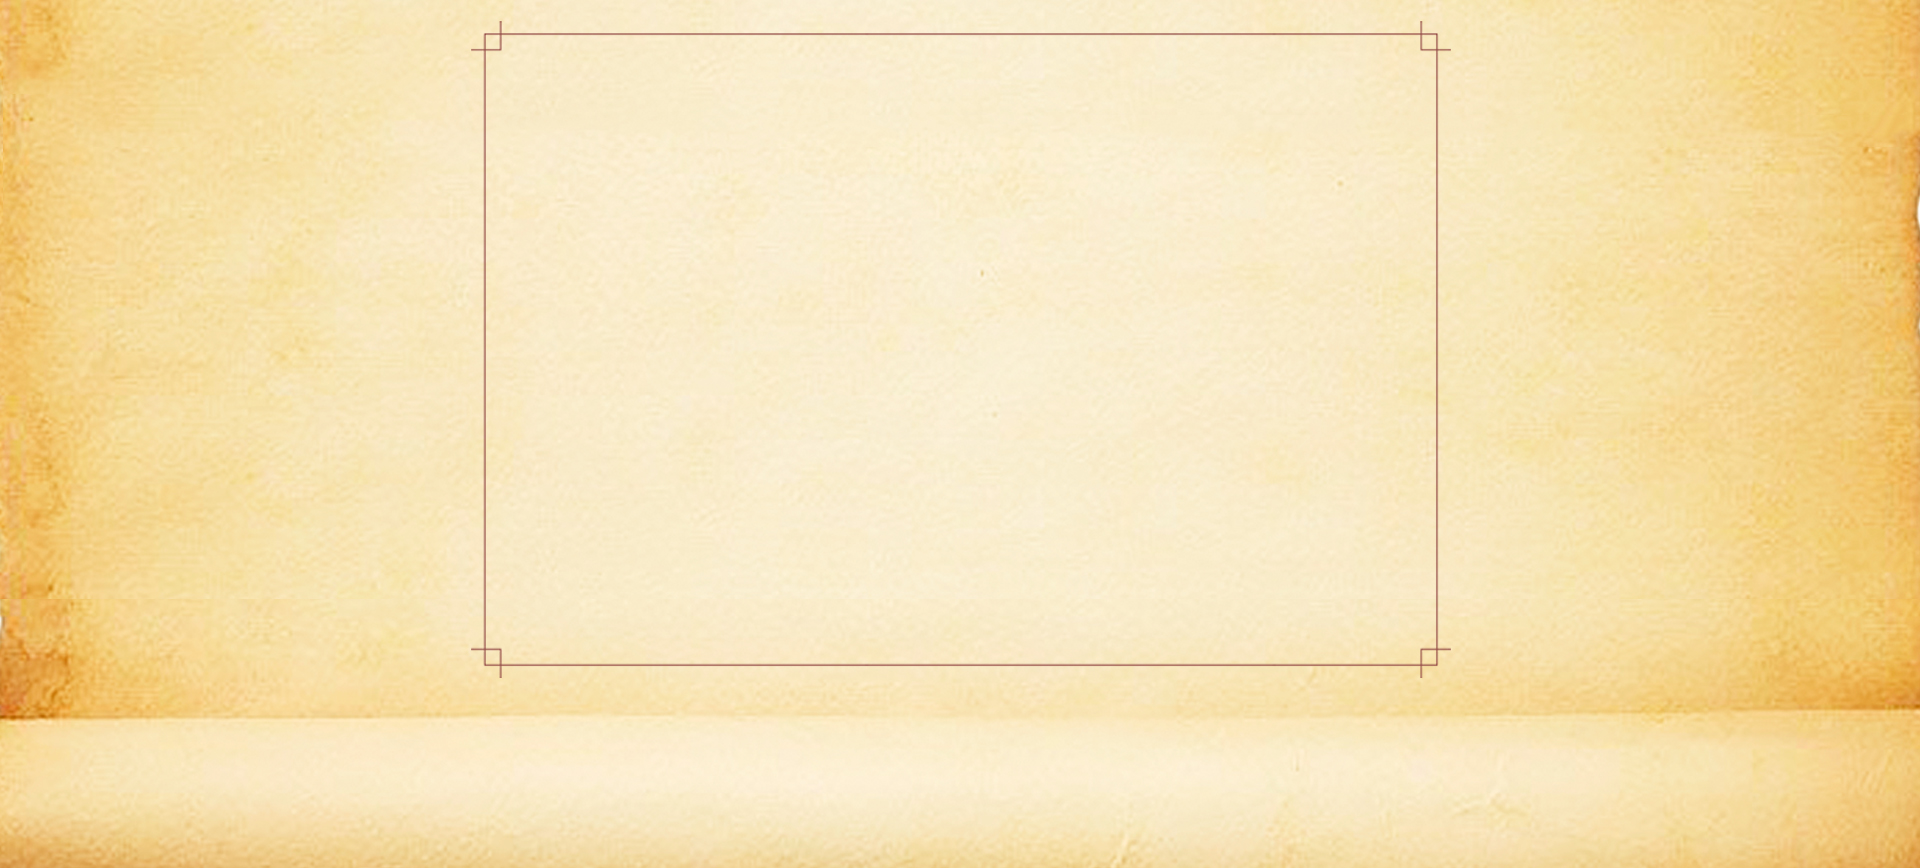
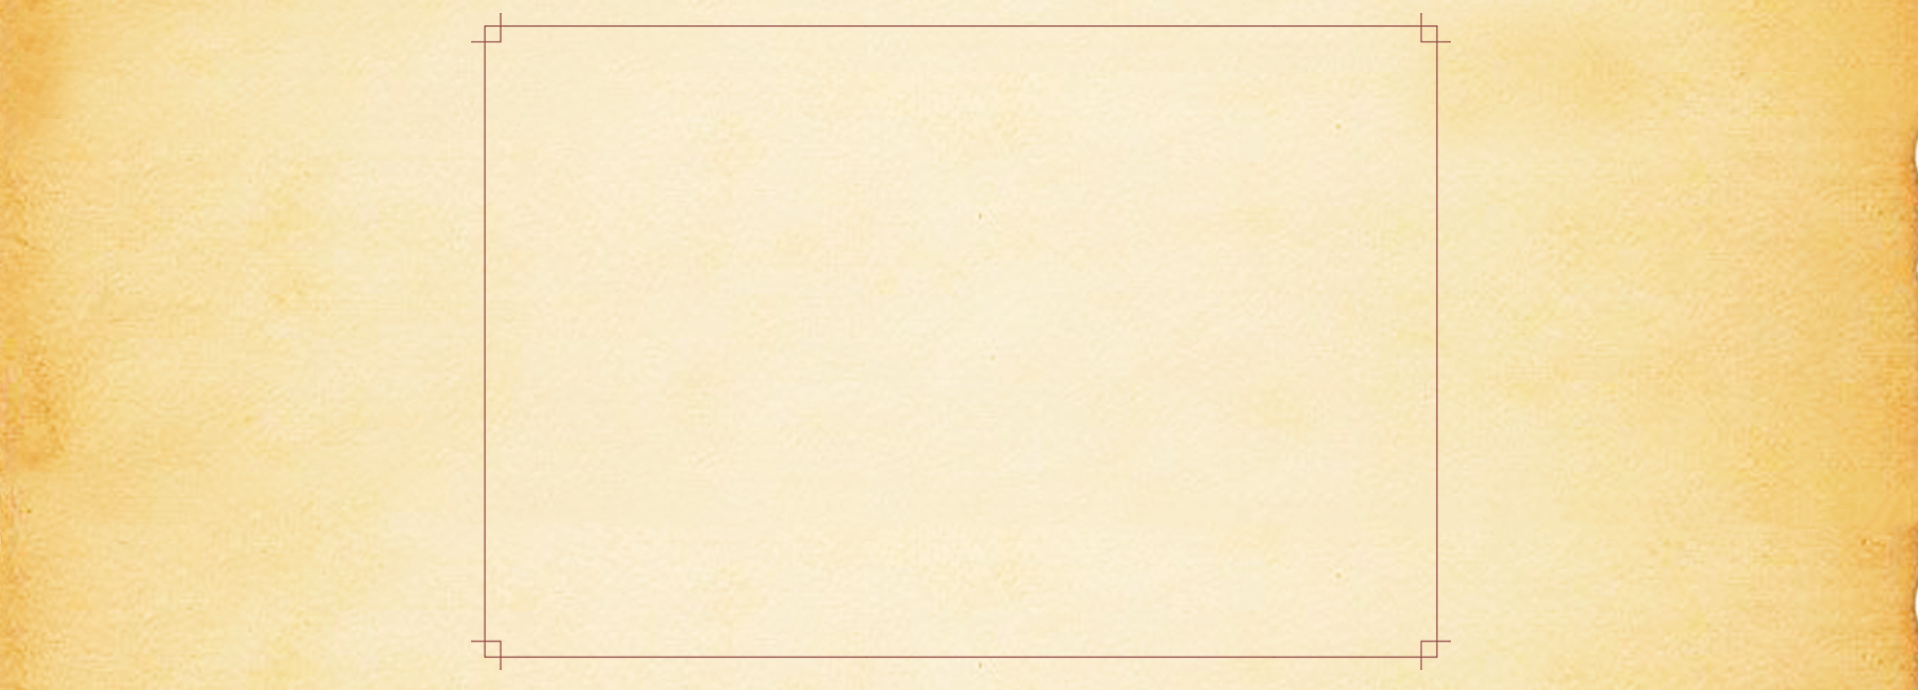
东樾府专题页

diff --git a/css/activity.css b/css/activity.css
@@ -1,1 +1,1 @@
-.main-width{width:1200px;min-width:1200px;margin-left:auto;margin-right:auto}.ellipse{overflow:hidden;white-space:nowrap;text-overflow:ellipsis}input,button{font-size:14px}button{cursor:pointer}.select{width:100%;height:45px;position:relative;font-size:14px}.select .form-control{width:100%;height:45px;line-height:45px;border-radius:3px;-webkit-border-radius:3px;-moz-border-radius:3px;color:#7f85a3;padding:0 12px;box-shadow:inset 0 1px 3px 0 rgba(127,133,163,0.53);-webkit-box-shadow:inset 0 1px 3px 0 rgba(127,133,163,0.53);-moz-box-shadow:inset 0 1px 3px 0 rgba(127,133,163,0.53);background:#eff2f9;background:url("../images/icon/select_ico.png") right 20px center no-repeat,linear-gradient(to bottom, #eff2f9, #dbe0ed)}.select .select-box{position:absolute;right:0;top:0;width:100%;min-height:100%}.select .select-box ul{min-width:100%;max-height:450px;background:#fff;display:none;overflow-x:hidden;overflow-y:auto;border-bottom:1px solid #c3c9d8}.select .select-box ul li{width:100%;height:45px;line-height:45px;border-top:1px solid #c3c9d8;color:#7f85a3;padding:0 12px;cursor:pointer}.select .select-box ul li:hover{background:#eff2f9;color:#7f85a3;border-top-color:#c3c9d8}.select .select-box:hover ul{display:block}.d6128-tit{background:#fff url("../images/activity/sm_02.jpg") center no-repeat;width:auto;height:150px}.d6128-info1{width:auto;height:auto;padding-bottom:50px;overflow:hidden}.d6128-tits{width:100%;height:55px;line-height:55px;color:#4c5374;font-size:22px;border-bottom:1px dotted #7f85a3;margin-top:20px}.d6128-tits1{width:100%;height:55px;line-height:55px;color:#4c5374;font-size:16px;margin-top:45px}.d6128-txt{font-size:16px;color:#4c5374;line-height:24pt;margin-top:20px}.d6128-info2{width:auto;height:auto;padding-bottom:50px;background:#fff;overflow:hidden}.d6128-info2 .main-width,.d6128-info1 .main-width{width:980px}.d6329-tits1{width:100%;height:40px;line-height:40px;color:#4c5374;font-size:20px;margin-top:45px}.d6329-txt{font-size:16px;color:#4c5374;line-height:24pt}.d6329-tits{width:100%;height:30px;line-height:30px;color:#4c5374;border-bottom:1px dotted #7f85a3}.img_w980{width:980px;height:auto}.d20170512-bg{width:100%;overflow:hidden;min-width:1300px}.d20170512-bg.img1{height:1062px;background:url("../images/activity/fel_img_01.jpg") center top no-repeat;background-size:auto 100%}.d20170512-bg.img2{height:754px;background:url("../images/activity/fel_img_02.jpg") center top no-repeat;background-size:auto 100%}.d20170512-bg.img3{height:541px;background:url("../images/activity/fel_img_03.jpg") center top no-repeat;background-size:auto 100%}.d20170810-bg{width:100%;overflow:hidden;background:#242434;font-weight:lighter}.d20170810-bg.img1{height:660px;background:url("../images/activity/dyf/dyf_01.jpg") center top no-repeat;background-size:auto 100%}.d20170810-bg.img2{height:556px;background:url("../images/activity/dyf/dyf_02.jpg") center top no-repeat;background-size:auto 100%}.d20170810-bg.img3 .content{width:682px;margin:30px auto;color:#f1ecd3;font-size:23px;line-height:36px;text-align:center}.d20170810-bg.img4{height:615px;background:url("../images/activity/dyf/dyf_04.jpg") center top no-repeat;background-size:auto 100%}.d20170810-bg.img4 .content{width:853px;height:auto;line-height:20px;color:#f1ecd3;font-size:20px;margin:119px auto 0}.d20170810-bg.img4 .content .items{width:1080px;height:auto}.d20170810-bg.img4 .content .item{display:block;width:381px;height:83px;line-height:25px;overflow:hidden;background-color:#242434;float:left;margin-right:156px;padding:15px 50px 0 0}.d20170810-bg.img5{height:636px;background:url("../images/activity/dyf/dyf_05.jpg") center top no-repeat;background-size:auto 100%}.d20170810-bg.img5 .content{width:853px;height:auto;line-height:20px;color:#f1ecd3;font-size:20px;margin:136px auto 0}.d20170810-bg.img5 .content .items{width:1080px;height:auto}.d20170810-bg.img5 .content .item{display:block;width:381px;height:80px;line-height:25px;overflow:hidden;background-color:#242434;float:left;margin-right:156px;padding:15px 50px 0 0}.d20170810-bg.img6{height:340px;background:url("../images/activity/dyf/dyf_06.jpg") center top no-repeat;background-size:auto 100%}.d20170810-bg.img7{height:717px;background:url("../images/activity/dyf/dyf_07.jpg") center top no-repeat;background-size:auto 100%}.d20170810-bg.img7 .flexslider{width:930px;height:600px;margin:65px auto 0;background:#242434}.d20170810-bg.img7 .flexslider .slides{width:100%;height:549px;overflow:hidden}.d20170810-bg.img7 .flexslider .flex-control-nav li a{width:16px;height:16px;border:1px solid #924b48;background:none}.d20170810-bg.img7 .flexslider .flex-control-nav li a.flex-active{background:#924b48;cursor:default}.d20170810-bg.img8{height:352px;background:url("../images/activity/dyf/dyf_08.jpg") center top no-repeat;background-size:auto 100%}.d20170810-bg.img9 .content{width:945px;margin:40px auto;color:#f1ecd3;font-size:20px;line-height:35px;text-indent:2em}.d20170810-bg.img10{height:820px;background:url("../images/activity/dyf/dyf_10.jpg") center top no-repeat;background-size:auto 100%}.d20170810-bg.img11{height:413px;background:url("../images/activity/dyf/dyf_11.jpg") center top no-repeat;background-size:auto 100%}.d20170925-bg{width:100%;min-width:1200px;overflow:hidden;background:#fff}.d20170925-bg.img1{height:809px;background:url("../images/activity/dyf2/img_01.jpg") center top no-repeat;background-size:auto 100%}.d20170925-bg.img2{height:790px;background:url("../images/activity/dyf2/img_02.jpg") center top no-repeat;background-size:auto 100%}.d20170925-bg.img3{height:589px;background:url("../images/activity/dyf2/img_03.jpg") center top no-repeat;background-size:auto 100%}.d20170925-bg.img4{height:1023px;background:url("../images/activity/dyf2/img_04.jpg") center top no-repeat;background-size:auto 100%}.d20170925-bg.img5{height:822px;background:url("../images/activity/dyf2/img_05.jpg") center top no-repeat;background-size:auto 100%}.d20170925-bg.img6{height:1009px;background:url("../images/activity/dyf2/img_06.jpg") center top no-repeat;background-size:auto 100%}.d20170925-bg.img7{height:420px;background:url("../images/activity/dyf2/img_07.jpg") center top no-repeat;background-size:auto 100%}.d20170925-bg.img8{height:774px;background:url("../images/activity/dyf2/img_08.jpg") center top no-repeat;background-size:auto 100%}.d20170925-bg.img8 .flexslider{width:1033px;height:645px;margin:33px auto 0}.d20170925-bg.img8 .flexslider .slides{width:100%;height:575px;overflow:hidden}.d20170925-bg.img8 .flexslider .flex-control-nav{bottom:10px}.d20170925-bg.img8 .flexslider .flex-control-nav li a{width:30px;height:30px;border:1px solid #924b48;background:none}.d20170925-bg.img8 .flexslider .flex-control-nav li a.flex-active{background:#924b48;cursor:default}.d20171020-bg{width:100%;min-width:1200px;overflow:hidden;background:#fff}.d20171020-bg.img1{height:739px;background:url("../images/activity/dyf3/img_01.jpg") center top no-repeat;background-size:auto 100%}.d20171020-bg.img2{height:736px;background:url("../images/activity/dyf3/img_02.jpg") center top no-repeat;background-size:auto 100%}.d20171020-bg.img3{height:794px;background:url("../images/activity/dyf3/img_03.jpg") center top no-repeat;background-size:auto 100%}.d20171020-bg.img4{height:710px;background:url("../images/activity/dyf3/img_04.jpg") center top no-repeat;background-size:auto 100%}.d20171020-bg.img5{height:568px;background:url("../images/activity/dyf3/img_05.jpg") center top no-repeat;background-size:auto 100%}.d20171020-bg.img6{height:784px;background:url("../images/activity/dyf3/img_06.jpg") center top no-repeat;background-size:auto 100%}.d20171020-bg.img7{height:868px;background:url("../images/activity/dyf3/img_07.jpg") center top no-repeat;background-size:auto 100%}.d20171020-bg.img7 .title{font-size:28px;color:#a44b49;text-align:center;margin-top:60px}.d20171020-bg.img7 .flexslider{background:none;width:930px;height:540px;margin:20px auto 0}.d20171020-bg.img7 .flexslider .slides{width:100%;height:495px;overflow:hidden}.d20171020-bg.img7 .flexslider .flex-control-nav{bottom:10px}.d20171020-bg.img7 .flexslider .flex-control-nav li a{width:18px;height:18px;border:1px solid #924b48;background:none}.d20171020-bg.img7 .flexslider .flex-control-nav li a.flex-active{background:#924b48;cursor:default}
+.main-width{width:1200px;min-width:1200px;margin-left:auto;margin-right:auto}.ellipse{overflow:hidden;white-space:nowrap;text-overflow:ellipsis}input,button{font-size:14px}button{cursor:pointer}.select{width:100%;height:45px;position:relative;font-size:14px}.select .form-control{width:100%;height:45px;line-height:45px;border-radius:3px;-webkit-border-radius:3px;-moz-border-radius:3px;color:#7f85a3;padding:0 12px;box-shadow:inset 0 1px 3px 0 rgba(127,133,163,0.53);-webkit-box-shadow:inset 0 1px 3px 0 rgba(127,133,163,0.53);-moz-box-shadow:inset 0 1px 3px 0 rgba(127,133,163,0.53);background:#eff2f9;background:url("../images/icon/select_ico.png") right 20px center no-repeat,linear-gradient(to bottom, #eff2f9, #dbe0ed)}.select .select-box{position:absolute;right:0;top:0;width:100%;min-height:100%}.select .select-box ul{min-width:100%;max-height:450px;background:#fff;display:none;overflow-x:hidden;overflow-y:auto;border-bottom:1px solid #c3c9d8}.select .select-box ul li{width:100%;height:45px;line-height:45px;border-top:1px solid #c3c9d8;color:#7f85a3;padding:0 12px;cursor:pointer}.select .select-box ul li:hover{background:#eff2f9;color:#7f85a3;border-top-color:#c3c9d8}.select .select-box:hover ul{display:block}.d6128-tit{background:#fff url("../images/activity/sm_02.jpg") center no-repeat;width:auto;height:150px}.d6128-info1{width:auto;height:auto;padding-bottom:50px;overflow:hidden}.d6128-tits{width:100%;height:55px;line-height:55px;color:#4c5374;font-size:22px;border-bottom:1px dotted #7f85a3;margin-top:20px}.d6128-tits1{width:100%;height:55px;line-height:55px;color:#4c5374;font-size:16px;margin-top:45px}.d6128-txt{font-size:16px;color:#4c5374;line-height:24pt;margin-top:20px}.d6128-info2{width:auto;height:auto;padding-bottom:50px;background:#fff;overflow:hidden}.d6128-info2 .main-width,.d6128-info1 .main-width{width:980px}.d6329-tits1{width:100%;height:40px;line-height:40px;color:#4c5374;font-size:20px;margin-top:45px}.d6329-txt{font-size:16px;color:#4c5374;line-height:24pt}.d6329-tits{width:100%;height:30px;line-height:30px;color:#4c5374;border-bottom:1px dotted #7f85a3}.img_w980{width:980px;height:auto}.d20170512-bg{width:100%;overflow:hidden;min-width:1300px}.d20170512-bg.img1{height:1062px;background:url("../images/activity/fel_img_01.jpg") center top no-repeat;background-size:auto 100%}.d20170512-bg.img2{height:754px;background:url("../images/activity/fel_img_02.jpg") center top no-repeat;background-size:auto 100%}.d20170512-bg.img3{height:541px;background:url("../images/activity/fel_img_03.jpg") center top no-repeat;background-size:auto 100%}.d20170810-bg{width:100%;overflow:hidden;background:#242434;font-weight:lighter}.d20170810-bg.img1{height:660px;background:url("../images/activity/dyf/dyf_01.jpg") center top no-repeat;background-size:auto 100%}.d20170810-bg.img2{height:556px;background:url("../images/activity/dyf/dyf_02.jpg") center top no-repeat;background-size:auto 100%}.d20170810-bg.img3 .content{width:682px;margin:30px auto;color:#f1ecd3;font-size:23px;line-height:36px;text-align:center}.d20170810-bg.img4{height:615px;background:url("../images/activity/dyf/dyf_04.jpg") center top no-repeat;background-size:auto 100%}.d20170810-bg.img4 .content{width:853px;height:auto;line-height:20px;color:#f1ecd3;font-size:20px;margin:119px auto 0}.d20170810-bg.img4 .content .items{width:1080px;height:auto}.d20170810-bg.img4 .content .item{display:block;width:381px;height:83px;line-height:25px;overflow:hidden;background-color:#242434;float:left;margin-right:156px;padding:15px 50px 0 0}.d20170810-bg.img5{height:636px;background:url("../images/activity/dyf/dyf_05.jpg") center top no-repeat;background-size:auto 100%}.d20170810-bg.img5 .content{width:853px;height:auto;line-height:20px;color:#f1ecd3;font-size:20px;margin:136px auto 0}.d20170810-bg.img5 .content .items{width:1080px;height:auto}.d20170810-bg.img5 .content .item{display:block;width:381px;height:80px;line-height:25px;overflow:hidden;background-color:#242434;float:left;margin-right:156px;padding:15px 50px 0 0}.d20170810-bg.img6{height:340px;background:url("../images/activity/dyf/dyf_06.jpg") center top no-repeat;background-size:auto 100%}.d20170810-bg.img7{height:717px;background:url("../images/activity/dyf/dyf_07.jpg") center top no-repeat;background-size:auto 100%}.d20170810-bg.img7 .flexslider{width:930px;height:600px;margin:65px auto 0;background:#242434}.d20170810-bg.img7 .flexslider .slides{width:100%;height:549px;overflow:hidden}.d20170810-bg.img7 .flexslider .flex-control-nav li a{width:16px;height:16px;border:1px solid #924b48;background:none}.d20170810-bg.img7 .flexslider .flex-control-nav li a.flex-active{background:#924b48;cursor:default}.d20170810-bg.img8{height:352px;background:url("../images/activity/dyf/dyf_08.jpg") center top no-repeat;background-size:auto 100%}.d20170810-bg.img9 .content{width:945px;margin:40px auto;color:#f1ecd3;font-size:20px;line-height:35px;text-indent:2em}.d20170810-bg.img10{height:820px;background:url("../images/activity/dyf/dyf_10.jpg") center top no-repeat;background-size:auto 100%}.d20170810-bg.img11{height:413px;background:url("../images/activity/dyf/dyf_11.jpg") center top no-repeat;background-size:auto 100%}.d20170925-bg{width:100%;min-width:1200px;overflow:hidden;background:#fff}.d20170925-bg.img1{height:809px;background:url("../images/activity/dyf2/img_01.jpg") center top no-repeat;background-size:auto 100%}.d20170925-bg.img2{height:790px;background:url("../images/activity/dyf2/img_02.jpg") center top no-repeat;background-size:auto 100%}.d20170925-bg.img3{height:589px;background:url("../images/activity/dyf2/img_03.jpg") center top no-repeat;background-size:auto 100%}.d20170925-bg.img4{height:1023px;background:url("../images/activity/dyf2/img_04.jpg") center top no-repeat;background-size:auto 100%}.d20170925-bg.img5{height:822px;background:url("../images/activity/dyf2/img_05.jpg") center top no-repeat;background-size:auto 100%}.d20170925-bg.img6{height:1009px;background:url("../images/activity/dyf2/img_06.jpg") center top no-repeat;background-size:auto 100%}.d20170925-bg.img7{height:420px;background:url("../images/activity/dyf2/img_07.jpg") center top no-repeat;background-size:auto 100%}.d20170925-bg.img8{height:774px;background:url("../images/activity/dyf2/img_08.jpg") center top no-repeat;background-size:auto 100%}.d20170925-bg.img8 .flexslider{width:1033px;height:645px;margin:33px auto 0}.d20170925-bg.img8 .flexslider .slides{width:100%;height:575px;overflow:hidden}.d20170925-bg.img8 .flexslider .flex-control-nav{bottom:10px}.d20170925-bg.img8 .flexslider .flex-control-nav li a{width:30px;height:30px;border:1px solid #924b48;background:none}.d20170925-bg.img8 .flexslider .flex-control-nav li a.flex-active{background:#924b48;cursor:default}.d20171020-bg{width:100%;min-width:1200px;overflow:hidden}.d20171020-bg.img1{height:739px;background:url("../images/activity/dyf3/img_01.jpg") center top no-repeat;background-size:auto 100%}.d20171020-bg.img2{height:736px;background:url("../images/activity/dyf3/img_02.jpg") center top no-repeat;background-size:auto 100%}.d20171020-bg.img3{height:794px;background:url("../images/activity/dyf3/img_03.jpg") center top no-repeat;background-size:auto 100%}.d20171020-bg.img4{height:710px;background:url("../images/activity/dyf3/img_04.jpg") center top no-repeat;background-size:auto 100%}.d20171020-bg.img5{height:568px;background:url("../images/activity/dyf3/img_05.jpg") center top no-repeat;background-size:auto 100%}.d20171020-bg.img6{height:784px;background:url("../images/activity/dyf3/img_06.jpg") center top no-repeat;background-size:auto 100%}.d20171020-bg.img7{height:690px;background:url("../images/activity/dyf3/img_07.jpg") center top no-repeat;background-size:auto 100%}.d20171020-bg.img7 .title{font-size:28px;color:#a44b49;text-align:center;margin-top:60px}.d20171020-bg.img7 .flexslider{background:none;width:930px;height:540px;margin:20px auto 0}.d20171020-bg.img7 .flexslider .slides{width:100%;height:495px;overflow:hidden}.d20171020-bg.img7 .flexslider .flex-control-nav{bottom:10px}.d20171020-bg.img7 .flexslider .flex-control-nav li a{width:18px;height:18px;border:1px solid #924b48;background:none}.d20171020-bg.img7 .flexslider .flex-control-nav li a.flex-active{background:#924b48;cursor:default}.d20171020-bg.img8{height:571px;background:url("../images/activity/dyf3/img_08.jpg") center top no-repeat;background-size:auto 100%}

diff --git a/theme/专题页/东樾府未来智慧生活家.html b/theme/专题页/东樾府未来智慧生活家.html
@@ -11,25 +11,6 @@
 
     <!--slider start-->
     <link rel="stylesheet" href="../../js/addons/flexSlider/flexslider.css"/>
-    <script src="../../js/jQuery1.12.3-min.js" type="text/javascript"></script>
-    <script type="text/javascript" src="../../js/addons/flexSlider/jquery.flexslider-min.js"></script>
-    <script type="text/javascript">
-        $(function () {
-            $(".flexslider").flexslider({
-                prevText: '',
-                nextText: '',
-                directionNav: false,
-                pauseOnAction: false,
-                slideshowSpeed: 3000,
-                animationSpeed: 400,
-                after:function(e){
-                    var text =$('.slides li').eq(e.animatingTo).data('title');
-                    $('.img7 .title').text(text)
-                }
-            });
-        });
-    </script>
-    <!--slider end-->
 </head>
 <body>
 <div class="d20171020-bg img1"></div>
@@ -42,14 +23,34 @@
     <div class="title">广安·恒阳瑞锦城</div>
     <div class="flexslider">
         <ul class="slides">
-            <li data-title="广安·恒阳瑞锦城1"><a href="javascript:void(0)" style="background:url('../../images/activity/dyf2/slide_01.png') center no-repeat;background-size:auto 100%;"></a></li>
-            <li data-title="广安·恒阳瑞锦城2"><a href="javascript:void(0)" style="background:url('../../images/activity/dyf2/slide_02.png') center no-repeat;background-size:auto 100%;"></a></li>
-            <li data-title="广安·恒阳瑞锦城3"><a href="javascript:void(0)" style="background:url('../../images/activity/dyf2/slide_03.png') center no-repeat;background-size:auto 100%;"></a></li>
-            <li data-title="广安·恒阳瑞锦城4"><a href="javascript:void(0)" style="background:url('../../images/activity/dyf2/slide_04.png') center no-repeat;background-size:auto 100%;"></a></li>
-            <li data-title="广安·恒阳瑞锦城5"><a href="javascript:void(0)" style="background:url('../../images/activity/dyf2/slide_05.png') center no-repeat;background-size:auto 100%;"></a></li>
+            <li data-title="广安·恒阳瑞锦城"><a href="javascript:void(0)" style="background:url('../../images/activity/dyf3/slide_01.jpg') center no-repeat;background-size:auto 100%;"></a></li>
+            <li data-title="宜宾·兴文·恒阳·中央大都会"><a href="javascript:void(0)" style="background:url('../../images/activity/dyf3/slide_02.jpg') center no-repeat;background-size:auto 100%;"></a></li>
+            <li data-title="广安·邻水·云鼎府邸"><a href="javascript:void(0)" style="background:url('../../images/activity/dyf3/slide_03.jpg') center no-repeat;background-size:auto 100%;"></a></li>
+            <li data-title="广安·邻水·御临天下"><a href="javascript:void(0)" style="background:url('../../images/activity/dyf3/slide_04.jpg') center no-repeat;background-size:auto 100%;"></a></li>
+            <li data-title="广安·邻水·西城御府"><a href="javascript:void(0)" style="background:url('../../images/activity/dyf3/slide_05.jpg') center no-repeat;background-size:auto 100%;"></a></li>
         </ul>
     </div>
 </div>
+<div class="d20171020-bg img8"></div>
+<script src="../../js/jQuery1.12.3-min.js" type="text/javascript"></script>
+<script type="text/javascript" src="../../js/addons/flexSlider/jquery.flexslider-min.js"></script>
+<script type="text/javascript">
+    $(function () {
+        $(".flexslider").flexslider({
+            prevText: '',
+            nextText: '',
+            directionNav: false,
+            pauseOnAction: false,
+            slideshowSpeed: 3000,
+            animationSpeed: 400,
+            after:function(e){
+                var text =$('.slides li').eq(e.animatingTo).data('title');
+                $('.img7 .title').text(text)
+            }
+        });
+    });
+</script>
+<!--slider end-->
 </body>
 </body>
 </html>

diff --git a/css/activity.less b/css/activity.less
@@ -251,7 +251,6 @@
   width: 100%;
   min-width:1200px;
   overflow: hidden;
-  background: #fff;
   &.img1 {
     height: 739px;
     background:url("../images/activity/dyf3/img_01.jpg") center top no-repeat;
@@ -283,7 +282,7 @@
     background-size: auto 100%;
   }
   &.img7 {
-    height: 868px;
+    height: 690px;
     background:url("../images/activity/dyf3/img_07.jpg") center top no-repeat;
     background-size: auto 100%;
 
@@ -312,6 +311,11 @@
         }
       }
     }
+  }
+  &.img8 {
+    height: 571px;
+    background:url("../images/activity/dyf3/img_08.jpg") center top no-repeat;
+    background-size: auto 100%;
   }
 }
 
